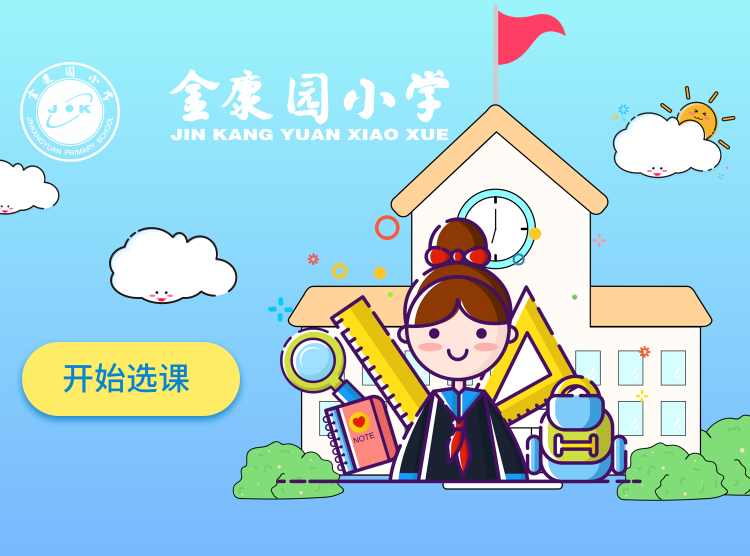
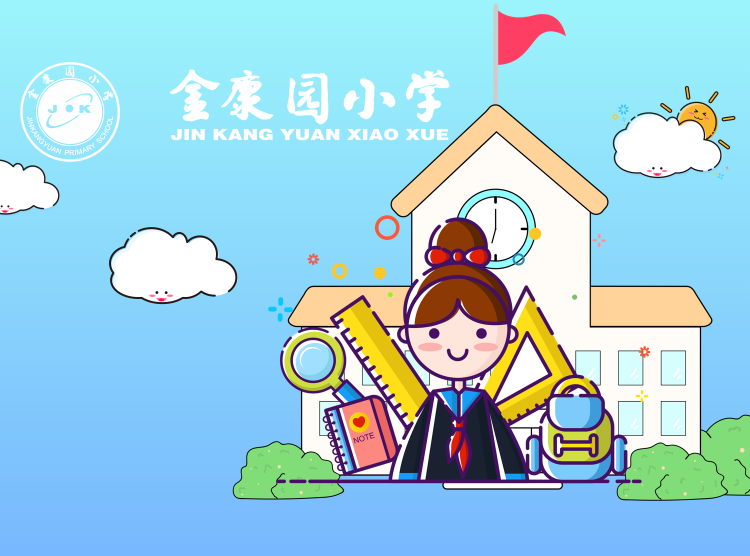
封装弹框

Changed region(s): [[0.0, 0.6115, 0.3373, 0.7644]]

diff --git a/html/chooseClass.html b/html/chooseClass.html
@@ -37,7 +37,7 @@
     </div>
   </div>
   <div class="classList">
-    <div class="item">
+    <a class="item" href="chooseClassDetail.html">
       <img src="assets/chooseClass/signed.png">
       <div class="left"><img src="assets/chooseClass/class1.png"></div>
       <div class="right">
@@ -52,8 +52,8 @@
           <p>收藏：99999</p>
         </div>
       </div>
-    </div>
-    <div class="item">
+    </a>
+    <a class="item" href="chooseClassDetail.html">
       <img src="assets/chooseClass/ended.png">
       <div class="left"><img src="assets/chooseClass/class1.png"></div>
       <div class="right">
@@ -68,8 +68,8 @@
           <p>收藏：99999</p>
         </div>
       </div>
-    </div>
-    <div class="item">
+    </a>
+    <a class="item" href="chooseClassDetail.html">
       <img src="assets/chooseClass/ended.png">
       <div class="left"><img src="assets/chooseClass/class1.png"></div>
       <div class="right">
@@ -84,8 +84,8 @@
           <p>收藏：99999</p>
         </div>
       </div>
-    </div>
-    <div class="item">
+    </a>
+    <a class="item" href="chooseClassDetail.html">
       <img src="assets/chooseClass/ended.png">
       <div class="left"><img src="assets/chooseClass/class1.png"></div>
       <div class="right">
@@ -100,8 +100,8 @@
           <p>收藏：99999</p>
         </div>
       </div>
-    </div>
-    <div class="item">
+    </a>
+    <a class="item" href="chooseClassDetail.html">
       <img src="assets/chooseClass/ended.png">
       <div class="left"><img src="assets/chooseClass/class1.png"></div>
       <div class="right">
@@ -116,7 +116,7 @@
           <p>收藏：99999</p>
         </div>
       </div>
-    </div>
+    </a>
   </div>
 </div>
 
@@ -126,12 +126,12 @@
     <p>首页</p></a>
   <a class="item" href="sport.html"><img src="assets/menu2.png"/>
     <p>体育</p></a>
-  <a class="item activeFoot" href="evaluate.html"><img src="assets/menu3hover.png"/>
-    <p>评价</p></a>
   <a class="item" href="finalExam.html"><img src="assets/menu4.png"/>
     <p>成绩</p></a>
   <a class="item" href="shop.html"><img src="assets/menu5.png"/>
     <p>商城</p></a>
+  <a class="item" href="chooseClass.html"><img src="assets/menu7_hover.png"/>
+    <p>评价</p></a>
   <a class="item" href="personal.html"><img src="assets/menu6.png"/>
     <p>我的</p></a>
 </div>

diff --git a/html/js/alert.js b/html/js/alert.js
@@ -1,0 +1,59 @@
+function startAlert (payload) {
+    // {
+    //   twoBut:true
+    // }
+
+    var warp = document.createElement('div');
+    warp.style.cssText = 'width: 100vw;  height: 100vh;  position: fixed;  top: 0;  left: 0;  z-index: 999;  display: flex;  justify-content: center;  align-items: center;  background: rgba(0, 0, 0, 0.6);  transition:all 1s;  visibility: hidden;  opacity: 0;';
+
+    var content = document.createElement('div');
+    content.style.cssText = ' border-radius: 3vw;  width: 60vw;  height: 30vw;  background: #ffffff;  display: flex;  flex-direction: column;';
+
+    var head = document.createElement('div');
+
+    head.style.cssText = 'flex: 1;  font-size: .4rem;  display: flex;  justify-content: center;  align-items: center;  border-bottom: 1px solid #cccccc;';
+
+    var foot = document.createElement('div');
+    foot.style.cssText = ' height: 10vw;  font-size: .4rem;  display: flex;';
+
+    var sure = document.createElement('div');
+    var cancel = document.createElement('div');
+
+    sure.style.cssText = 'flex: 1;  height: 100%;  display: flex;  justify-content: center;  align-items: center;  box-sizing: border-box; border-right: 1px solid #cccccc;';
+    cancel.style.cssText = 'flex: 1;  height: 100%;  display: flex;  justify-content: center;  align-items: center;  box-sizing: border-box;';
+
+    foot.appendChild(sure);
+
+    if (payload.twoBut) {
+        foot.appendChild(cancel);
+        sure.style.border = 'none';
+    }
+
+    var close = function() {
+        cancel.remove();
+        sure.remove();
+        foot.remove();
+        head.remove();
+        content.remove();
+        warp.remove();
+    };
+
+    sure.onclick = function() {
+        if (payload.sure) {
+            payload.sure();
+        }
+        close();
+    };
+
+    cancel.onclick = function() {
+        close();
+    };
+
+    warp.appendChild(content);
+    content.appendChild(head);
+    content.appendChild(foot);
+
+    return {
+        close: close
+    };
+}

diff --git a/html/index.html b/html/index.html
@@ -16,9 +16,9 @@
 
 <div class="wrap">
   <div class="topBg">
-    <div class="imgWrap">
-      <img src="assets/bannertwo.png">
-      <a id="check">点击查看</a>
+    <div class="imgWrap chooseC">
+      <img src="assets/chooseClass/banner3.png">
+      <a id="check">开始选课</a>
     </div>
 
     <div class="ranking">
@@ -35,8 +35,8 @@
     </div>
     <div id="listSwiper">
       <div class='swiper-wrapper'>
-        <div class='swiper-slide item'><div class='imgWrap'><img src='assets/ce.jpg' /></div><p>笔记本</p></div>
-        <div class='swiper-slide item'><div class='imgWrap'><img src='assets/bannertwo.png' /></div><p>笔记本</p></div>
+        <div class='swiper-slide item'><div class='imgWrap'><img src='' /></div><p>笔记本</p></div>
+        <div class='swiper-slide item'><div class='imgWrap'><img src='' /></div><p>笔记本</p></div>
         <div class='swiper-slide item'><div class='imgWrap'><img src='' /></div><p>笔记本</p></div>
         <div class='swiper-slide item'><div class='imgWrap'><img src='' /></div><p>笔记本</p></div>
         <div class='swiper-slide item'><div class='imgWrap'><img src='' /></div><p>笔记本</p></div>
@@ -90,9 +90,9 @@
 <div class="foot">
   <a class="item activeFoot" href="index.html"><img src="assets/menu1hover.png" /><p>首页</p></a>
   <a class="item" href="sport.html"><img src="assets/menu2.png" /><p>体育</p></a>
-  <a class="item" href="evaluate.html"><img src="assets/menu3.png" /><p>评价</p></a>
   <a class="item" href="finalExam.html"><img src="assets/menu4.png" /><p>成绩</p></a>
   <a class="item" href="shop.html"><img src="assets/menu5.png" /><p>商城</p></a>
+  <a class="item" href="chooseClass.html"><img src="assets/menu7.png" /><p>评价</p></a>
   <a class="item" href="personal.html"><img src="assets/menu6.png" /><p>我的</p></a>
 </div>
 <script>

diff --git a/html/chooseClassDetail.html b/html/chooseClassDetail.html
@@ -9,8 +9,28 @@
   <link rel="stylesheet" type="text/css" href="css/chooseClass.css"/>
   <script src="js/amfe-flexible.js"></script>
   <script src="js/jquery-3.4.1.min.js"></script>
+  <script src="js/alert.js"></script>
 </head>
 <body>
+<div class="tip" id="alertTip">
+  <div class="tipWrap">
+    <div class="tipContent">报名成功</div>
+    <div class="tipFoot">
+      <div class="oneTip" onclick="hideTipClick()">确定</div>
+    </div>
+  </div>
+</div>
+
+<div class="tip" id="sureTip">
+  <div class="tipWrap">
+    <div class="tipContent">是否确认报名此课程</div>
+    <div class="tipFoot">
+      <div onclick="sureTipClick()">确定</div>
+      <div onclick="hideTipClick()">取消</div>
+    </div>
+  </div>
+</div>
+
 <div class="backHead">
   <a href="JavaScript:history.back(-1);"><img src="assets/left.png"/> </a>
   <div>课程详情</div>
@@ -45,6 +65,9 @@
   <div class="signClass" onclick="signClass()">立即报名</div>
 </div>
 <script>
+  let sureTip = document.getElementById('sureTip');
+  let alertTip = document.getElementById('alertTip');
+
   function getType (type) {
     if (type === 1) {
       document.getElementById('idOne').className = 'activeType';
@@ -61,7 +84,27 @@
 
   function signClass () {
     console.log('点击报名事件');
+
+    sureTip.style.visibility = 'visible';
+    sureTip.style.opacity = '1';
+
   }
+
+  function hideTipClick () {
+    sureTip.style.visibility = 'hidden';
+    sureTip.style.opacity = '0';
+    alertTip.style.visibility = 'hidden';
+    alertTip.style.opacity = '0';
+  }
+
+  function sureTipClick () {
+    sureTip.style.visibility = 'hidden';
+    sureTip.style.opacity = '0';
+
+    alertTip.style.visibility = 'visible';
+    alertTip.style.opacity = '1';
+  }
+
 </script>
 </body>
 </html>

diff --git a/html/css/common.css b/html/css/common.css
@@ -1,6 +1,7 @@
 li {
   list-style: none;
 }
+
 p {
   margin: 0;
   padding: 0;
@@ -136,4 +137,60 @@ a {
   padding: 0 3vw;
   box-sizing: border-box;
   width: 100vw;
+}
+
+.tip {
+  width: 100vw;
+  height: 100vh;
+  position: fixed;
+  top: 0;
+  left: 0;
+  z-index: 999;
+  display: flex;
+  justify-content: center;
+  align-items: center;
+  background: rgba(0, 0, 0, 0.6);
+  transition:all 1s;
+  visibility: hidden;
+  opacity: 0;
+}
+
+.tip .tipWrap {
+  border-radius: 3vw;
+  width: 60vw;
+  height: 30vw;
+  background: #ffffff;
+  display: flex;
+  flex-direction: column;
+}
+
+.tip .tipContent {
+  flex: 1;
+  font-size: .4rem;
+  display: flex;
+  justify-content: center;
+  align-items: center;
+  border-bottom: 1px solid #cccccc;
+}
+.tip .tipFoot {
+  height: 10vw;
+  font-size: .4rem;
+  display: flex;
+}
+
+.tip .tipFoot > div {
+  flex: 1;
+  height: 100%;
+  display: flex;
+  justify-content: center;
+  align-items: center;
+  box-sizing: border-box;
+}
+
+.tip .tipFoot > div:nth-child(1) {
+  border-right: 1px solid #cccccc;
+}
+
+.tip .tipFoot > div.oneTip {
+  border: none;
 }

diff --git a/html/css/chooseClass.css b/html/css/chooseClass.css
@@ -9,8 +9,8 @@
 }
 
 .menu {
-  margin: 2vw 0;
-  padding: 3vw 3vw 0;
+  margin: 1.5vw 0 0.5vw;
+  padding: 2vw 3vw 0;
   width: 100%;
   box-sizing: border-box;
   display: flex;
@@ -47,7 +47,7 @@
 .selectWrap ul {
   position: absolute;
   left: 0;
-  top: 10vw;
+  top: 8.85vw;
   z-index: 1;
   width: 100%;
   margin: 0;
@@ -59,6 +59,11 @@
 .selectWrap ul li {
   padding: 2vw 3vw;
   border-bottom: 1px solid #F8F8F8;
+}
+
+.selectWrap ul li:nth-child(1) {
+  background:rgba(15,136,255,0.4);
+  color: #ffffff;
 }
 
 .filter {
@@ -240,4 +245,5 @@
   justify-content: center;
   align-items: center;
   border-radius: 1.5vw;
+  font-size: .6rem;
 }

diff --git a/html/css/index.css b/html/css/index.css
@@ -11,6 +11,11 @@
   position: relative;
 }
 
+.topBg .imgWrap.chooseC #check {
+  right: 0;
+  left: 5vw;
+}
+
 .topBg .imgWrap img {
   width: 100%;
 }
@@ -107,16 +112,8 @@
   border-radius: 1vh;
   width: 12.8vh;
   height: 12.8vh;
-  overflow: hidden;
   box-shadow: 0 0 1vw rgba(0, 0, 0, 0.8);
-  display: flex;
-  justify-content: center;
-  align-items: center;
 }
-.listWrap #listSwiper .item .imgWrap img {
-  width: 100%;
-}
-
 .listWrap #listSwiper .item p {
   text-align: center;
   font-size: .2rem;
